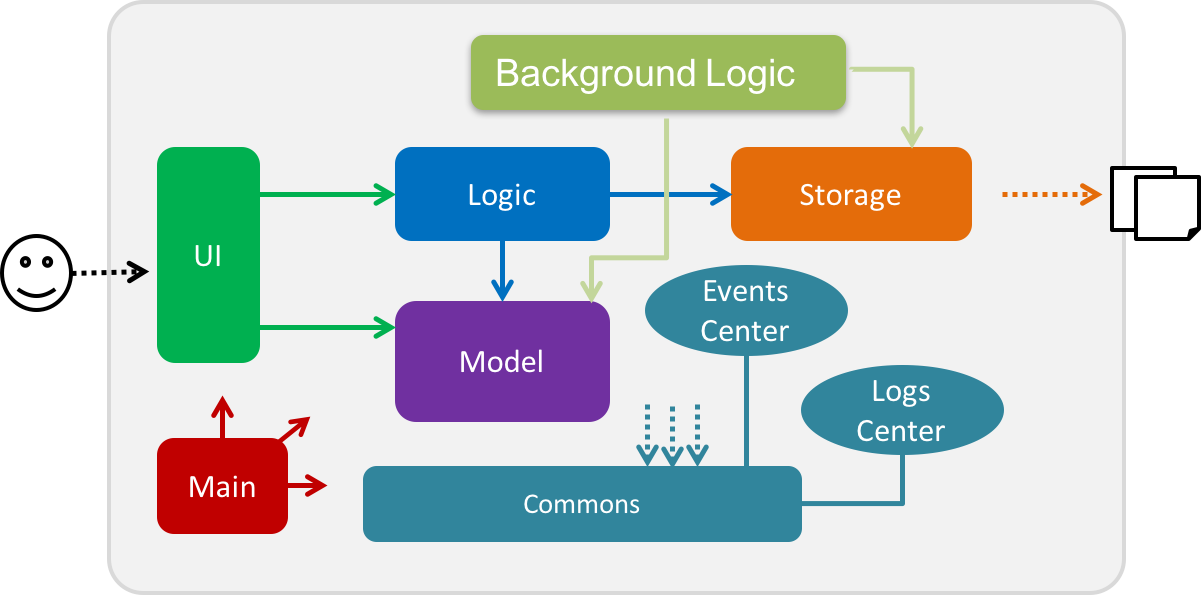
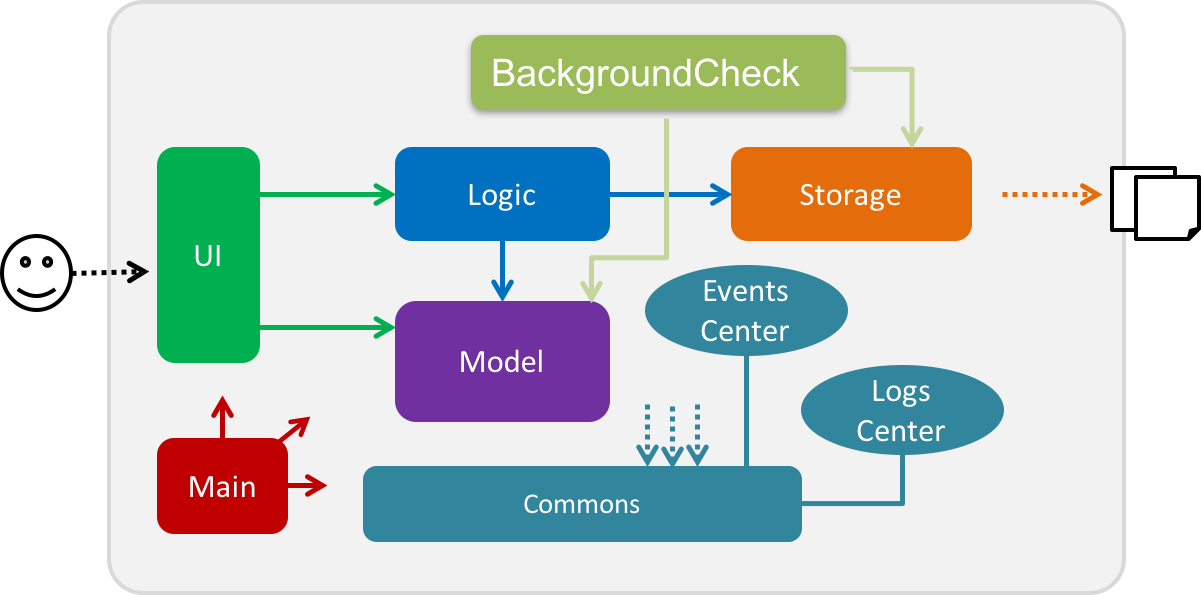
Add BackgroundCheck component to developer guide

Changed region(s): [[0.4005, 0.0908, 0.6778, 0.1513]]

diff --git a/docs/DeveloperGuide.md b/docs/DeveloperGuide.md
@@ -176,15 +176,24 @@ Figure 8 is the Sequence Diagram for interactions within the `Logic` component f
 Under logic command, there are several commands that make use of `Model` for execution.
 `UndoCommand` and `RedoCommand` make use of two stacks in `Model` which stores different states of `ReadOnlyActivityManager`. When there is a command that causes modification to `ReadOnlyActivityManager`, a copy of the state of `ReadOnlyActivityManager` before the modification will be pushed into the undo stack. Calling `UndoCommand` will cause a pop from the undo stack and the state will be pushed into the redo stack. Similarly, calling `RedoCommand` will cause a pop from redo stack and the state will be pushed back into the undo stack. This allows the application to jump around different states of `ReadOnlyActivityManager`.
 
-### BackgroundLogic Component
+[//]: # (@@A0139277U)
+### BackgroundCheck Component
+<img src="images/BackgroundCheck.png" width="800"><br>
+> Figure 9: BackgroundCheck component<br>
 
+API: `BackgroundCheck.java`
+
+The `BackgroundCheck` component
+
+* Constantly checks the model for any activities which may have their date passed. 
+* Updates the model if any activities has passed and stores the updated information into `Storage`.
 
 [//]: # (@@author)
 
 ### Model component
 
 <img src="images/ModelClassDiagram.png" width="800"><br>
-> Figure 9: Model component<br>
+> Figure 10: Model component<br>
 
 *API* : [`Model.java`](../src/main/java/seedu/menion/model/Model.java)
 
